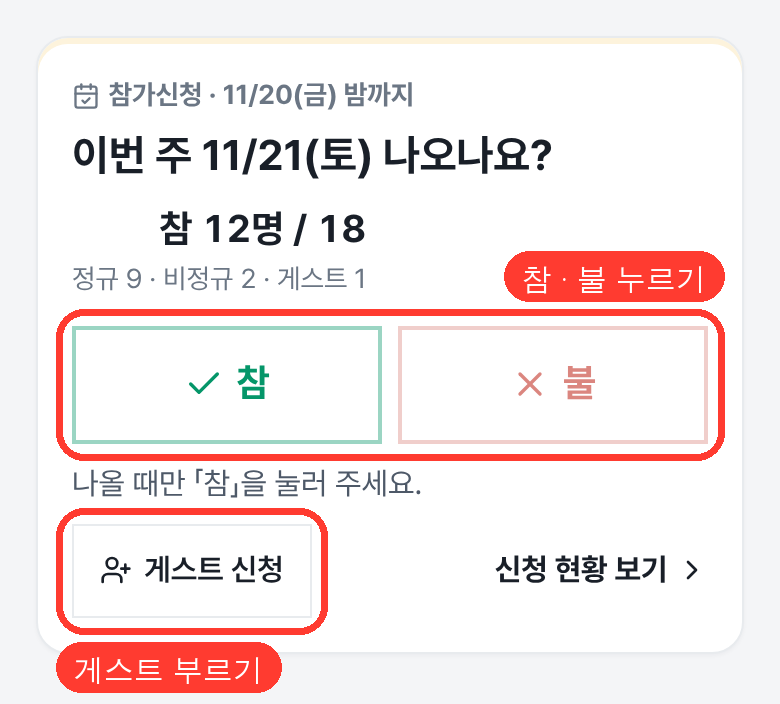
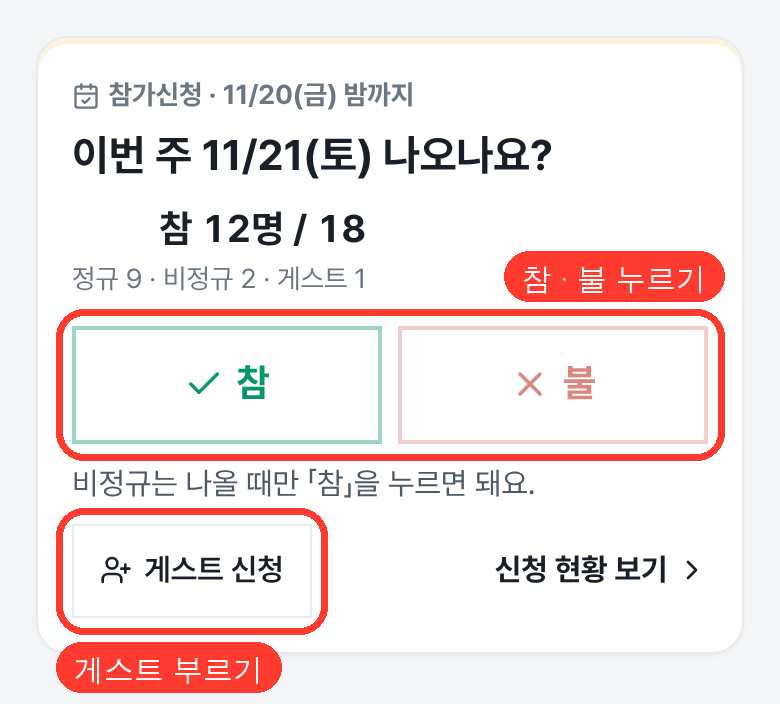
참가신청 안내 문구 정리 · 시험 계정 월렛 무료 충전 · 판매 행 없는 지난 달 정규권은 「판매 종료」
- 홈 카드 답하기 전 안내: 정규 「참·불 중 하나를 꼭」 · 비정규 「나올 때만 참」
- 포인트 부족 상자 두 줄로 줄임(통장 이름 문구 제거) · 가이드 그림·문장 다시
- teams.settings.test_player_ids 선수 = 월렛 무료 충전, 내역·어드민 잔액·처리 내역에서 숨김
- 정규권 카드: 판매를 따로 열지 않은 지난·이번 달은 「판매 종료」(종전 「판매 전」), 마감도 「판매 종료」

Claude-Session: https://claude.ai/code/session_01XKriD9hMdKkZ6F7AF6kXhd

Changed region(s): [[0.0923, 0.6562, 0.6769, 0.7188]]

diff --git a/src/components/league/wallet/WalletPageClient.tsx b/src/components/league/wallet/WalletPageClient.tsx
@@ -36,6 +36,8 @@ interface WalletRes {
   auto_charge?: boolean
   /** 운영진(팀 어드민)은 정규권 무료(136) */
   pass_free?: boolean
+  /** 시험 계정 — 충전 창이 「무료 충전」(2026-11-15 CEO) */
+  test_free?: boolean
   me?: { balance: number; refundable: number; ledger: LedgerItem[]; requests: RequestItem[]; tickets: TicketItem[] } | null
 }
 
@@ -49,10 +51,11 @@ function whenKst(iso: string): string {
   return `${md}(${wd}) ${hm}`
 }
 /** 정규권 판매 상태 한 줄 */
-function saleLine(s: PassSaleLite | undefined): string {
-  if (!s) return '판매 전'
+function saleLine(s: PassSaleLite | undefined, month?: string): string {
+  // 판매를 따로 열지 않은 달 — 이미 시작한 달이면 「판매 종료」(판매 기능 전에 이미 다 팔린 11월 등, 2026-11-15 CEO)
+  if (!s) return month && month <= `${new Date(Date.now() + 9 * 3600_000).toISOString().slice(0, 7)}-01` ? '판매 종료' : '판매 전'
   if (s.state === 'upcoming') return `${whenKst(s.opens_at)} 판매 시작`
-  if (s.state === 'closed' || s.sold >= s.capacity) return '판매 마감'
+  if (s.state === 'closed' || s.sold >= s.capacity) return '판매 종료'
   return `판매 중 · 남은 자리 ${s.capacity - s.sold}`
 }
 
@@ -82,7 +85,7 @@ function RegularPassCard({ month, owned, onBuy, sale }: { month: string; owned: 
         className="mm-press flex flex-col items-start justify-between p-3 min-h-[84px] text-left disabled:cursor-default"
         style={{ border: `1.5px dashed ${open ? GOLD : 'var(--mm-rule)'}`, borderRadius: 'var(--mm-radius-card)', color: 'var(--mm-muted)' }}>
         <span className="inline-flex items-center gap-1 text-xs font-bold"><Ticket size={14} aria-hidden />{mon(month)} 정규권</span>
-        <span className="text-sm font-black break-keep" style={{ color: open ? 'var(--mm-ink)' : 'var(--mm-ink-soft)' }}>{open ? `${saleLine(sale)} · 사기` : saleLine(sale)}</span>
+        <span className="text-sm font-black break-keep" style={{ color: open ? 'var(--mm-ink)' : 'var(--mm-ink-soft)' }}>{open ? `${saleLine(sale, month)} · 사기` : saleLine(sale, month)}</span>
       </button>
     )
   }
@@ -572,7 +575,26 @@ export default function WalletPageClient({ leagueId, initialTab = 'me' }: { leag
       {/* ── 창: 충전 ── */}
       {/* 입금 알림이 연결돼 있으면 「입금만 하면 자동 충전」이 먼저, 충전 요청은 「다른 이름으로 입금했어요」 뒤로(2026-11-10 운영진) */}
       <Sheet open={sheet === 'charge'} onClose={() => { setSheet(null); setOtherName(false) }} title="충전하기" width="md">
-        {data.auto_charge && !otherName ? (
+        {data.test_free ? (
+          // 시험 계정(2026-11-15 CEO) — 입금 없이 바로 충전, 내역에도 안 남는다
+          <div className="space-y-3">
+            <p className="px-3 py-2 text-sm font-bold break-keep" style={{ background: 'var(--mm-yellow-soft)', border: '1px solid var(--mm-yellow-strong)', borderRadius: 'var(--mm-radius-ctl)', color: 'var(--mm-ink)' }}>
+              시험 계정이에요. 입금 없이 바로 충전돼요.
+            </p>
+            <div className="grid grid-cols-4 gap-1.5">
+              {QUICK.map(q => (
+                <button key={q} type="button" onClick={() => setAmount(String(q))} className="mm-press min-h-11 px-1 text-sm font-bold border whitespace-nowrap" style={chip(typedAmount === q)}>
+                  {(q / 10000).toLocaleString()}만
+                </button>
+              ))}
+            </div>
+            <button type="button" disabled={busy || !(typedAmount > 0)}
+              onClick={async () => { if (await post({ action: 'charge', amount: typedAmount }, `${fmtP(typedAmount)} 충전했어요(시험 계정)`)) { setAmount(''); setSheet(null) } }}
+              className="mm-press w-full min-h-12 font-black disabled:opacity-50" style={BTN_PRIMARY}>
+              {typedAmount > 0 ? `${fmtP(typedAmount)} 무료 충전` : '금액을 골라 주세요'}
+            </button>
+          </div>
+        ) : data.auto_charge && !otherName ? (
           <div className="space-y-3">
             <div className="px-4 py-4 text-center" style={{ background: 'var(--mm-yellow-soft)', border: '1px solid var(--mm-yellow-strong)', borderRadius: 'var(--mm-radius-card)' }}>
               <div className="text-lg font-black break-keep" style={{ color: 'var(--mm-ink)' }}>모임통장으로 입금만 하면<br />1분 안에 자동 충전돼요</div>

diff --git a/src/app/api/leagues/[leagueId]/wallet/route.ts b/src/app/api/leagues/[leagueId]/wallet/route.ts
@@ -15,6 +15,7 @@ import { createClient } from '@/lib/supabase/admin'
 import { loadPassSales, autoAssignAfterPass, teamNameInMonth } from '@/lib/wallet/passSales'
 import { getApprovedSession } from '@/lib/auth/guard'
 import { getLeagueAdminSession } from '@/lib/auth/leagueAdmin'
+import { testPlayerIds, TEST_FREE_MEMO } from '@/lib/wallet/testAccount'
 import { resolveTeamId } from '@/lib/league/teamScope'
 import {
   loadWalletConfig, loadBalance, loadLedger, loadTickets, loadRefundable, buyableMonths,
@@ -46,6 +47,7 @@ export async function GET(_req: Request, { params }: Ctx) {
     loadPassSales(sb, teamId),
     getLeagueAdminSession(leagueId),
   ])
+  const isTest = (await testPlayerIds(teamId)).has(session.pid)
   if (reqRes.error) return NextResponse.json({ error: reqRes.error.message }, { status: 500 })
   return NextResponse.json({
     enabled: true, name: config.name, bank: config.bank, rules: config.rules, months: buyableMonths(),
@@ -53,7 +55,9 @@ export async function GET(_req: Request, { params }: Ctx) {
     pass_sales: passSales,
     // 운영진(팀 어드민)은 정규권 무료(136) — 화면 표시용, 값은 서버가 살 때 다시 판정
     pass_free: !!adminSession,
-    me: { balance, refundable, ledger, tickets, requests: (reqRes.data ?? []) as ChargeRequestRow[] },
+    // 시험 계정(2026-11-15 CEO) — 충전 창이 「무료 충전」, 그 충전은 내역에 안 보인다
+    test_free: isTest,
+    me: { balance, refundable, ledger: ledger.filter(l => l.memo !== TEST_FREE_MEMO), tickets, requests: (reqRes.data ?? []) as ChargeRequestRow[] },
   }, { headers: { 'Cache-Control': 'no-store' } })
 }
 
@@ -127,6 +131,15 @@ export async function POST(req: Request, { params }: Ctx) {
   if (action !== 'charge') return NextResponse.json({ error: 'action 은 charge · refund · buy' }, { status: 400 })
   const amount = parseAmount(body.amount)
   if (!amount) return NextResponse.json({ error: `금액은 1 ~ ${MAX_CHARGE.toLocaleString()}원 사이로 적어 주세요` }, { status: 400 })
+  // 시험 계정은 입금 없이 바로 충전(2026-11-15 CEO) — 요청 행을 만들지 않아 처리 내역에도 안 남는다
+  if ((await testPlayerIds(teamId)).has(session.pid)) {
+    const { error } = await sb.rpc('wallet_apply', {
+      p_team_id: teamId, p_player_id: session.pid, p_kind: 'adjust', p_amount: amount,
+      p_memo: TEST_FREE_MEMO, p_ref_type: null, p_ref_id: null, p_actor: `시험 계정 ${session.loginId}`,
+    })
+    if (error) return NextResponse.json({ error: walletErrorMessage(error.message) ?? error.message }, { status: 500 })
+    return NextResponse.json({ ok: true, free: true, amount }, { status: 201 })
+  }
   const depositor = str(body.depositor_name, 40)
   if (!depositor) return NextResponse.json({ error: '입금자명을 적어 주세요' }, { status: 400 })
   const reserved = (await loadClub(teamId))?.settings.bank_reserved_words

diff --git a/src/components/league/rsvp/RsvpHomeCard.tsx b/src/components/league/rsvp/RsvpHomeCard.tsx
@@ -106,7 +106,7 @@ export default function RsvpHomeCard({ leagueId, base }: { leagueId: string; bas
                       : canPayByPoints ? `비정규 참가 — 대기명단에 들어갔어요. 포인트로 티켓 1장(${(data.ticket_price ?? 0).toLocaleString()}P)이 자동으로 준비돼요.`
                         : null)
                 : me.answer === 'no' ? '불참으로 표시했어요. 마감 전에는 언제든 바꿀 수 있어요.'
-                  : open ? (me.kind === 'regular' ? '아직 답하지 않았어요.' : '나올 때만 「참」을 눌러 주세요.') : '이번 주는 답하지 않았어요.'}
+                  : open ? (me.kind === 'regular' ? '정규 멤버는 참·불 중 하나를 꼭 눌러 주세요.' : '비정규는 나올 때만 「참」을 누르면 돼요.') : '이번 주는 답하지 않았어요.'}
           </p>
           {me.kind === 'non_regular' && me.month_team_id && (() => {
             // 정규권은 운영진이 판매를 열 때만(130, 2026-11-10 운영진)
@@ -123,11 +123,11 @@ export default function RsvpHomeCard({ leagueId, base }: { leagueId: string; bas
           {/* 포인트 부족은 「참」을 누르기 전에 미리 — 입금만 하면 자동 충전(2026-11-10 운영진) */}
           {me.kind === 'non_regular' && !me.month_team_id && me.tickets_left === 0 && !canPayByPoints && !myTeam && me.answer !== 'no' && (
             <div className="text-sm mt-1 px-3 py-2 break-keep space-y-1" style={{ background: 'var(--mm-yellow-soft)', border: '1px solid var(--mm-yellow-strong)', color: 'var(--mm-ink)' }}>
-              <div className="font-bold">포인트가 모자라요.</div>
-              <div>비정규로 나오려면 {(data.ticket_price ?? 0).toLocaleString()}P가 필요해요.</div>
+              {/* 핵심만 두 줄(2026-11-15 CEO) — 「모임통장」 같은 통장 이름은 화면에 박지 않는다 */}
+              <div className="font-bold">포인트 부족 · {(data.ticket_price ?? 0).toLocaleString()}P 필요</div>
               {data.auto_charge ? (
                 <>
-                  <div>모임통장으로 입금만 하면 1분 안에 충전돼요.</div>
+                  <div>본인 이름으로 입금하면 1분 안에 자동 충전돼요.</div>
                   {data.wallet_bank && (
                     <div className="flex items-center justify-between gap-2 flex-wrap">
                       <span className="font-bold">{data.wallet_bank}</span>

diff --git a/src/app/api/leagues/[leagueId]/wallet/admin/route.ts b/src/app/api/leagues/[leagueId]/wallet/admin/route.ts
@@ -29,6 +29,7 @@ import { parseMimoText, previewMimo, applyMimo } from '@/lib/wallet/mimoImport'
 import { loadPassStatus } from '@/lib/wallet/passStatus'
 import { hashToken, newToken, parseSenderName, type BankEvent } from '@/lib/wallet/bankAuto'
 import { loadPassSales, loadPassBuyers } from '@/lib/wallet/passSales'
+import { testPlayerIds } from '@/lib/wallet/testAccount'
 
 /** 충전 요청이 이만큼 기다리는데 그 뒤로 입금 알림이 하나도 없으면 「폰을 확인해 주세요」 */
 const STALE_HOURS = 2
@@ -165,7 +166,10 @@ export async function GET(req: Request, { params }: Ctx) {
   const withName = (r: ChargeRequestRow) => ({ ...r, name: nameOf.get(r.league_player_id) ?? '알 수 없음' })
 
   // 게스트는 포인트 계정이 없다(운영진 — 게스트비는 통장으로 따로) → 잔액이 있을 때만 보인다.
+  // 시험 계정은 회원별 잔액·합계에서 뺀다(2026-11-15 CEO)
+  const testIds = await testPlayerIds(teamId)
   const members = players
+    .filter(p => !testIds.has(p.id))
     .filter(p => balOf.has(p.id) || (!p.is_guest && p.is_active !== false))
     .map(p => ({ player_id: p.id, name: p.name, balance: balOf.get(p.id) ?? 0, tickets: ticketsOf.get(p.id) ?? 0, pass: passOf.has(p.id) }))
     .sort((a, b) => b.balance - a.balance || a.name.localeCompare(b.name, 'ko'))

diff --git a/src/lib/wallet/testAccount.ts b/src/lib/wallet/testAccount.ts
@@ -1,0 +1,12 @@
+// 시험 계정(2026-11-15 CEO) — 운영진이 일반 회원 화면을 시험하려고 만든 계정.
+//   teams.settings.test_player_ids 에 든 선수는 월렛에서 무료로 충전하고(통장 입금 없이 바로 잔액),
+//   그 충전은 회원 내역·어드민 회원별 잔액·처리 내역 어디에도 보이지 않는다.
+//   ⚠ 잔액은 그대로 wallet_apply 로만 바꾼다(장부 행은 남는다 — 화면에서만 숨김).
+import { loadClub } from '@/lib/club/settings'
+
+export const TEST_FREE_MEMO = '시험 계정 무료 충전'
+
+export async function testPlayerIds(teamId: string): Promise<Set<string>> {
+  const club = await loadClub(teamId).catch(() => null)
+  return new Set(club?.settings.test_player_ids ?? [])
+}

diff --git a/src/lib/club/features.ts b/src/lib/club/features.ts
@@ -33,6 +33,8 @@ export interface ClubSettings {
   bank_reserved_words: string[]
   /** 동호회 인스타그램 주소(https://www.instagram.com/…) — 있으면 홈·「나」에 바로가기 버튼 */
   instagram_url: string | null
+  /** 운영진 화면 시험용 일반 회원 선수 id(2026-11-15 CEO) — 월렛 무료 충전 · 어드민 잔액·처리 내역에서 빠짐 */
+  test_player_ids: string[]
 }
 
 /** 지금 미라클 동작 = 기본값 */
@@ -45,6 +47,7 @@ export const DEFAULT_SETTINGS: ClubSettings = {
   roster_mode: ['quarter_draft', 'monthly_regular'],
   bank_reserved_words: ['모임통장'],
   instagram_url: null,
+  test_player_ids: [],
 }
 
 /** 동호회를 모를 때(화면 기본값) — 종전처럼 전부 켬 */

diff --git a/src/lib/guide/memberGuide.ts b/src/lib/guide/memberGuide.ts
@@ -61,7 +61,7 @@ export const MEMBER_GUIDE: GuideSection[] = [
           { t: '매주 월요일 홈 맨 위에 참 / 불이 열려요.', icon: 'bell', auto: true },
           { t: '금요일 밤까지 누를 수 있어요.', icon: 'clock' },
           { t: '정규 멤버는 「참」이면 바로 배정돼요.', icon: 'crown', auto: true },
-          { t: '정규 멤버는 못 나오면 「불」을 눌러요.', icon: 'x' },
+          { t: '정규 멤버는 참·불을 꼭 눌러요.', icon: 'x' },
           { t: '비정규는 나올 때만 「참」을 눌러요.', icon: 'ticket' },
           { t: '취소해도 쓴 티켓은 내 월렛에 남아요.', icon: 'ticket', tip: true },
         ],
